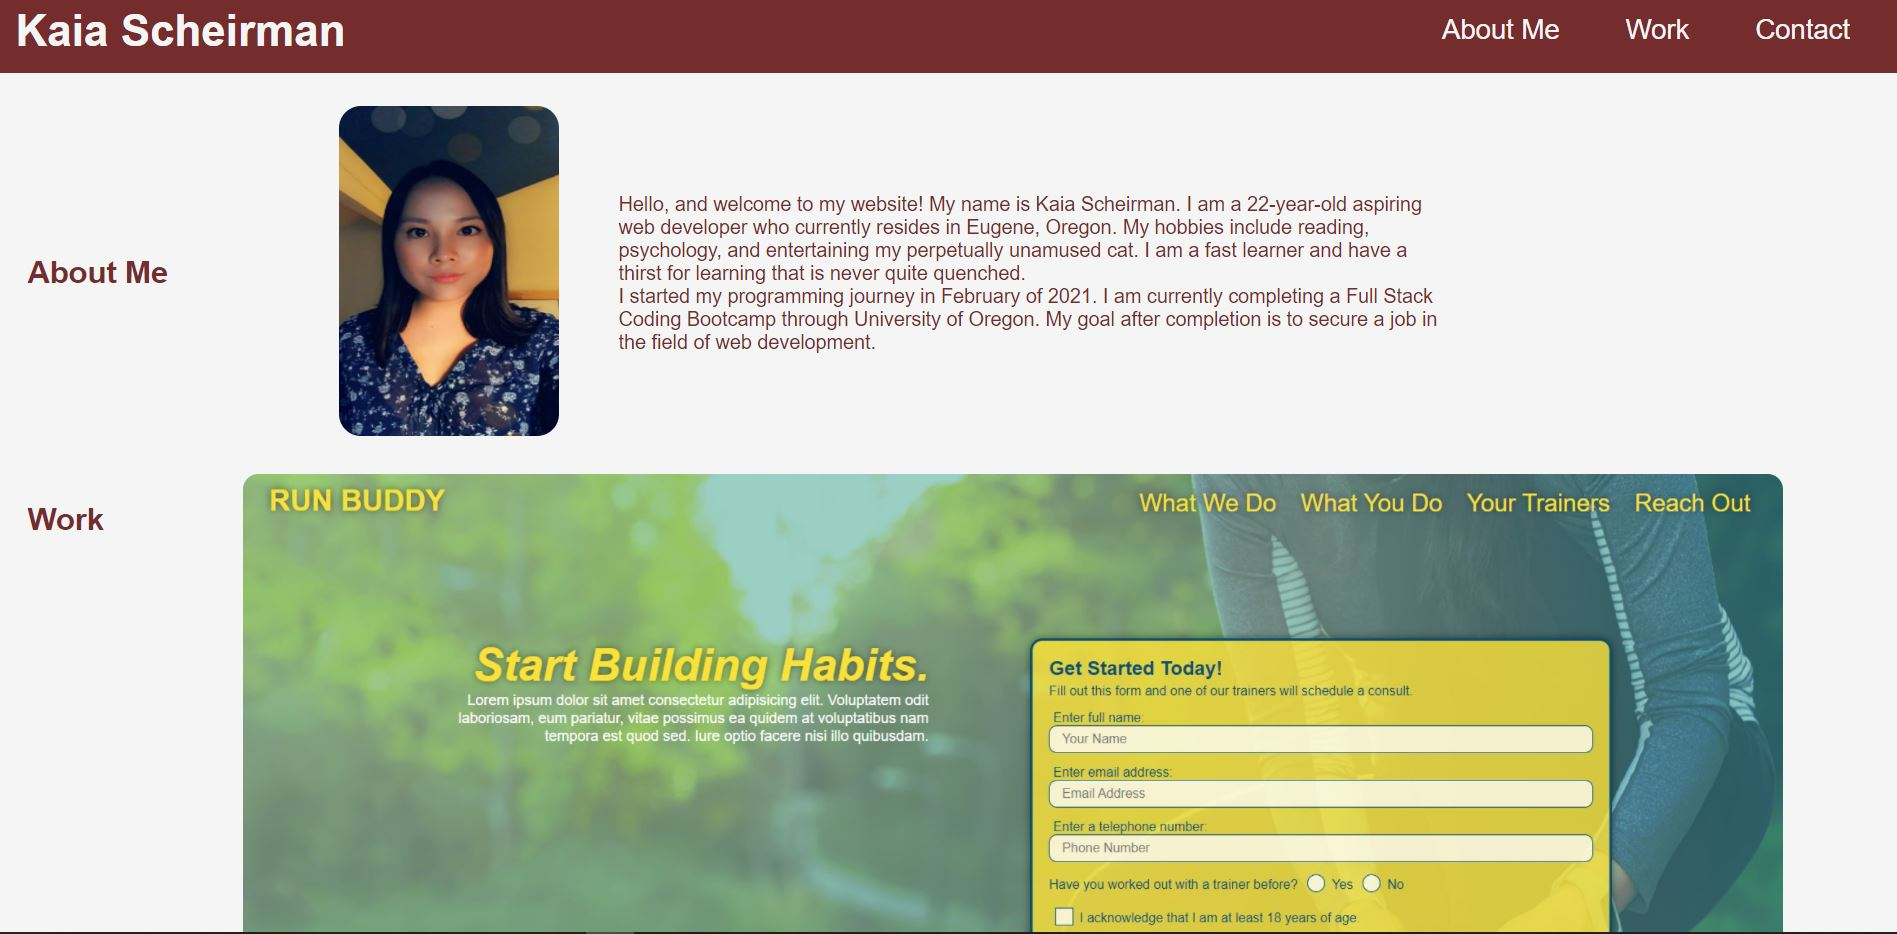
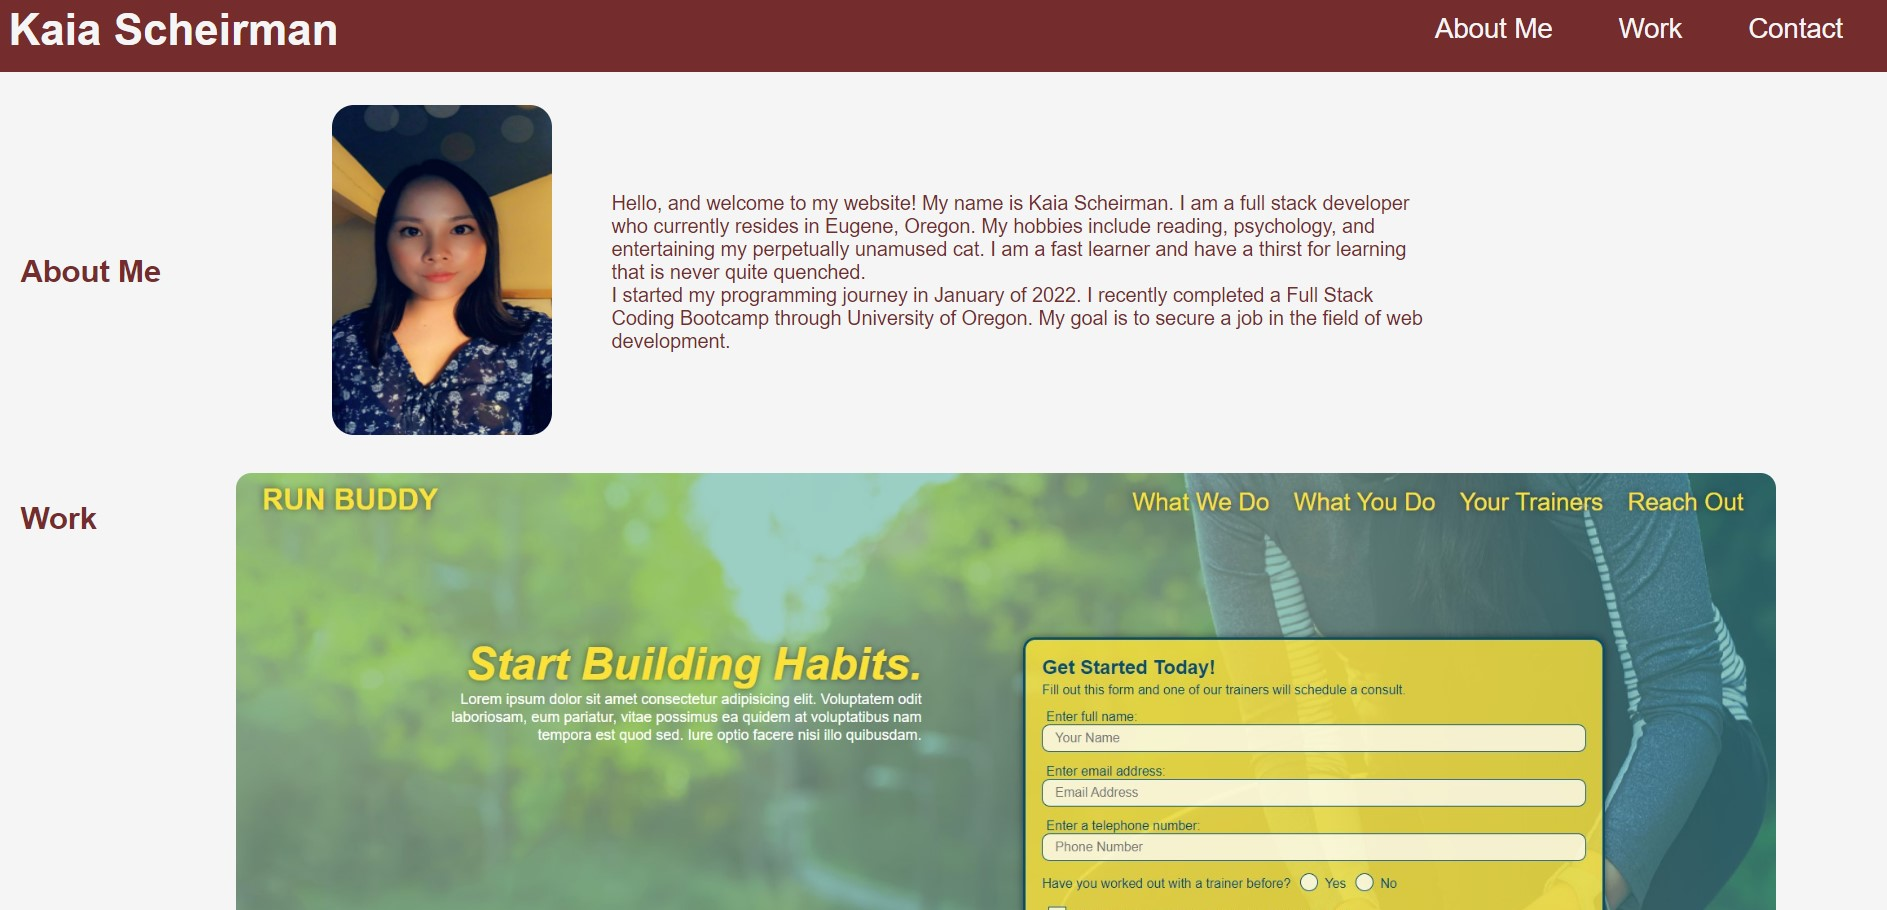
tweak about me section and update mockup photo

diff --git a/index.html b/index.html
@@ -44,15 +44,14 @@
       <div class="introduction">
         <p>
           Hello, and welcome to my website! My name is Kaia Scheirman. I am a
-          22-year-old aspiring web developer who currently resides in Eugene,
-          Oregon. My hobbies include reading, psychology, and entertaining my
-          perpetually unamused cat. I am a fast learner and have a thirst for
-          learning that is never quite quenched.
+          full stack developer who currently resides in Eugene, Oregon. My
+          hobbies include reading, psychology, and entertaining my perpetually
+          unamused cat. I am a fast learner and have a thirst for learning that
+          is never quite quenched.
           <br />
-          I started my programming journey in January of 2022. I am currently
-          completing a Full Stack Coding Bootcamp through University of Oregon.
-          My goal after completion is to secure a job in the field of web
-          development.
+          I started my programming journey in January of 2022. I recently
+          completed a Full Stack Coding Bootcamp through University of Oregon.
+          My goal is to secure a job in the field of web development.
         </p>
       </div>
     </section>
